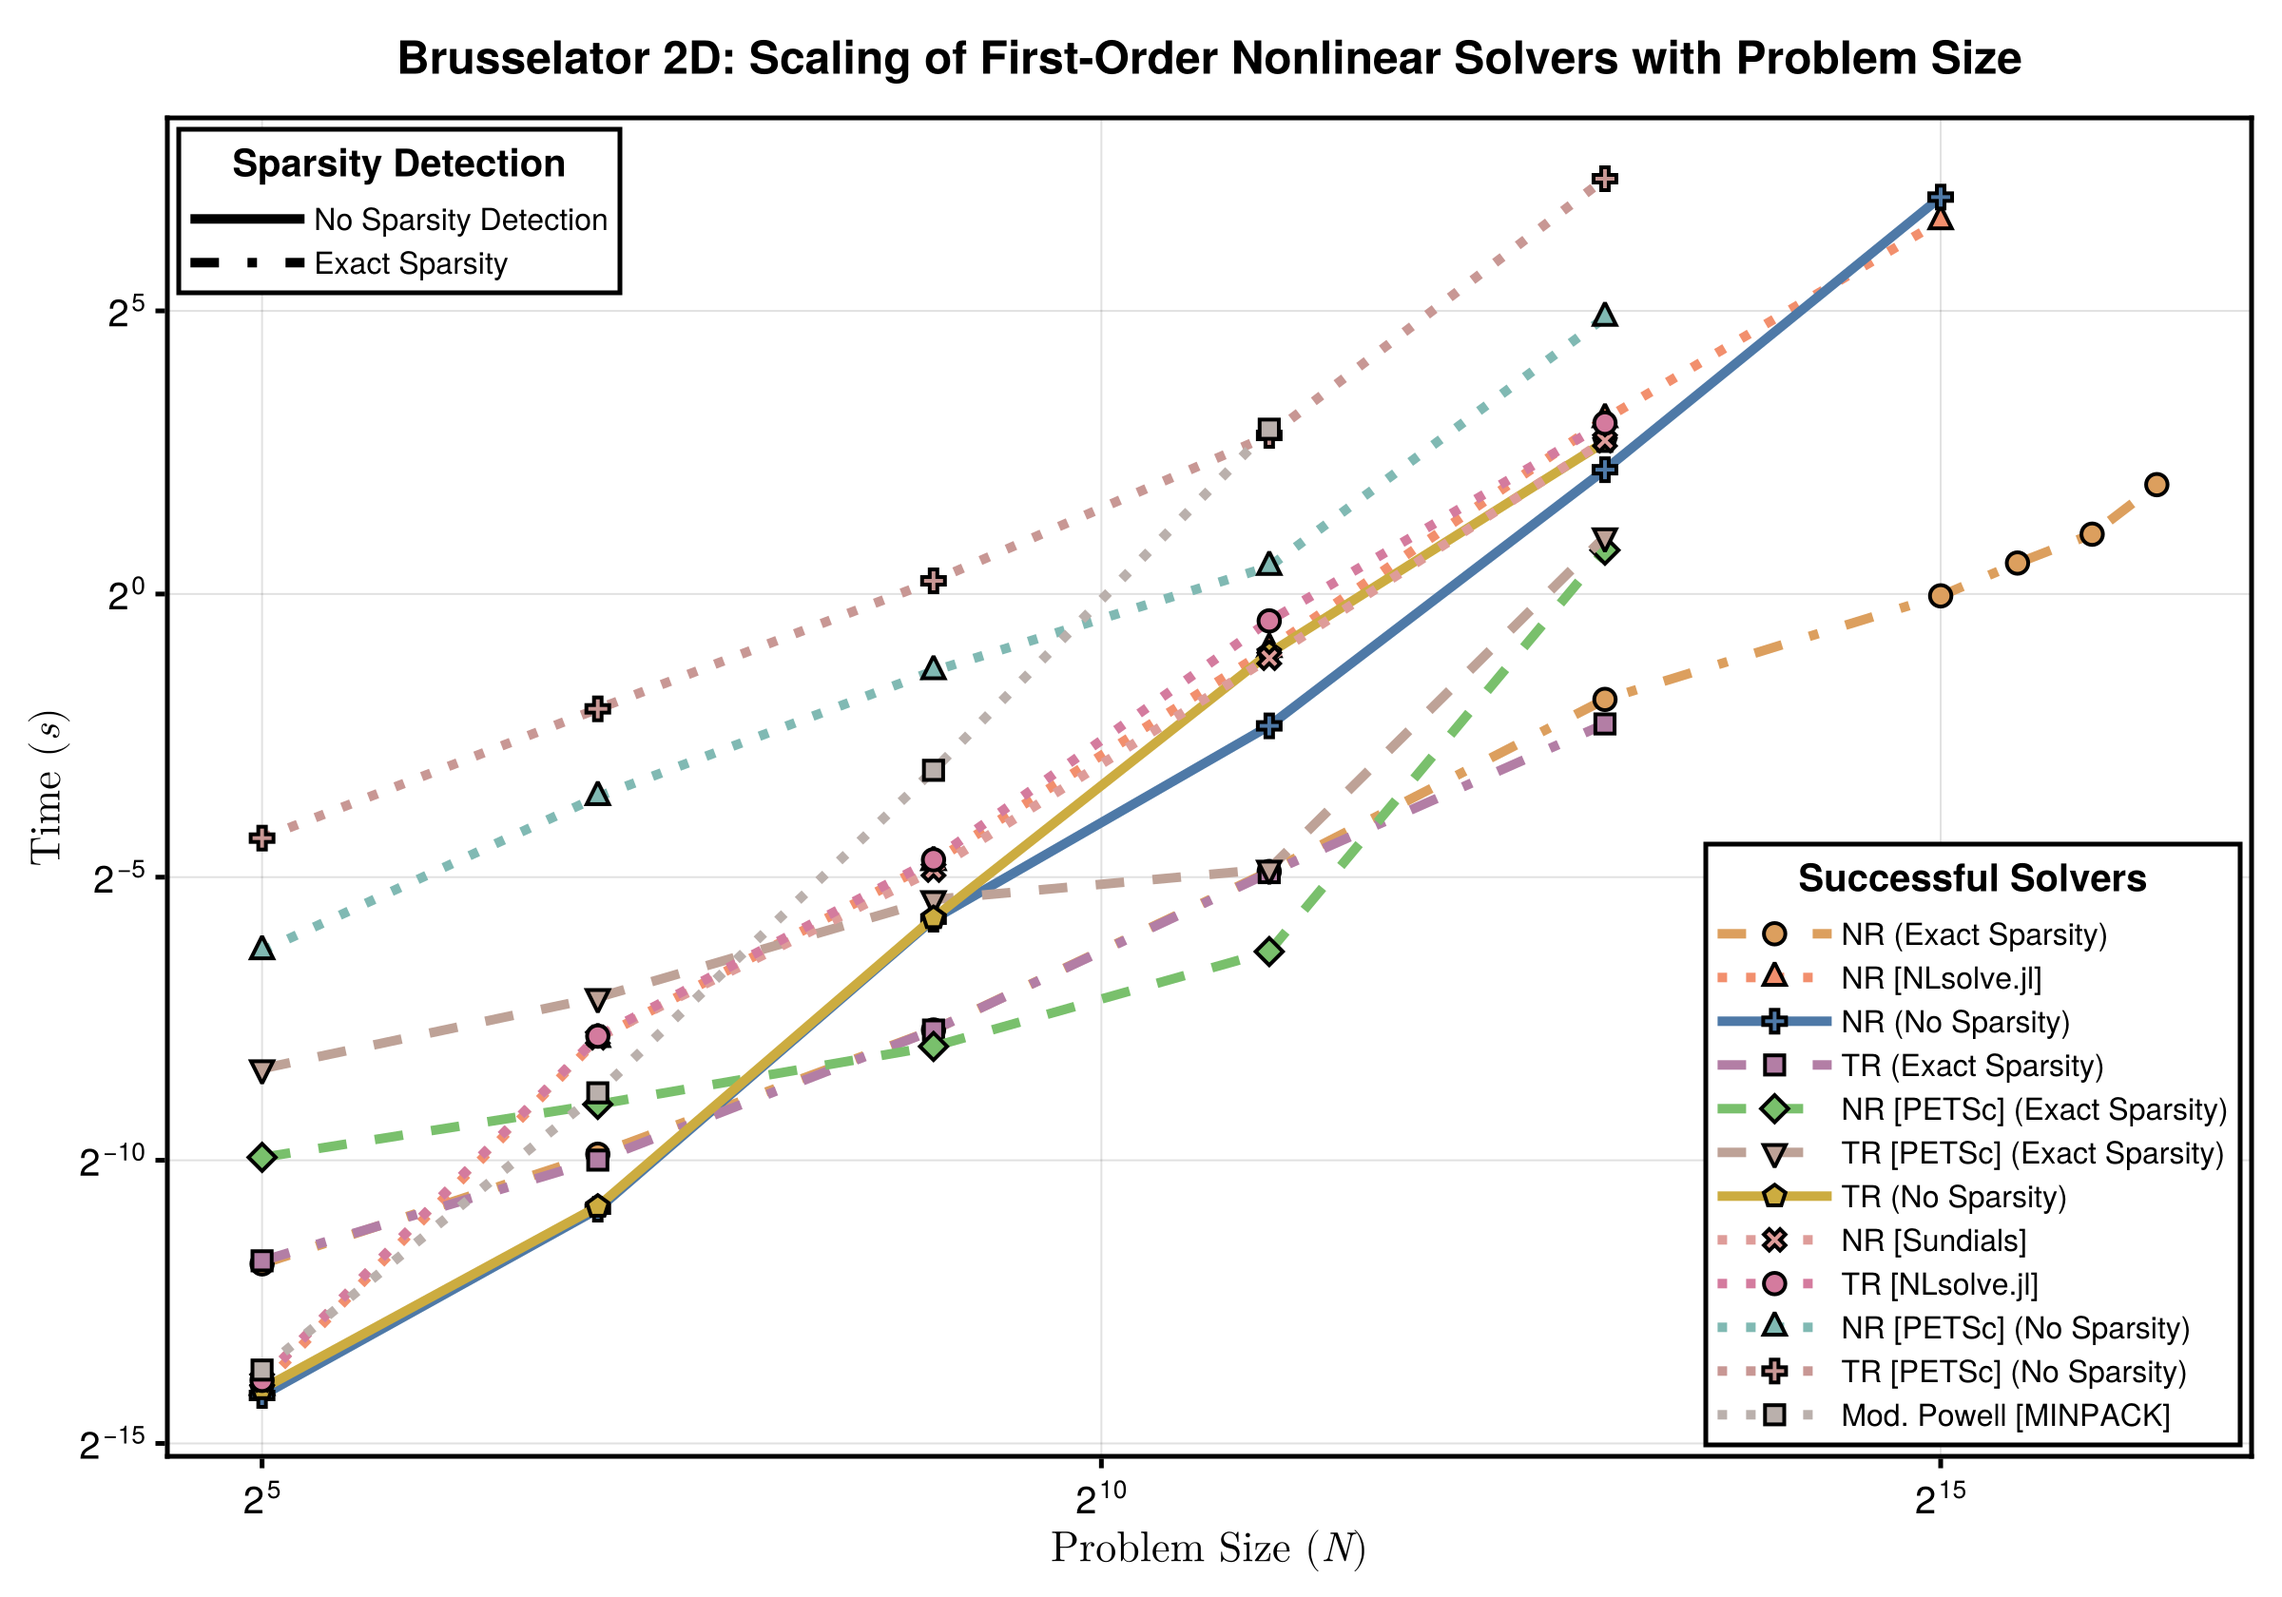
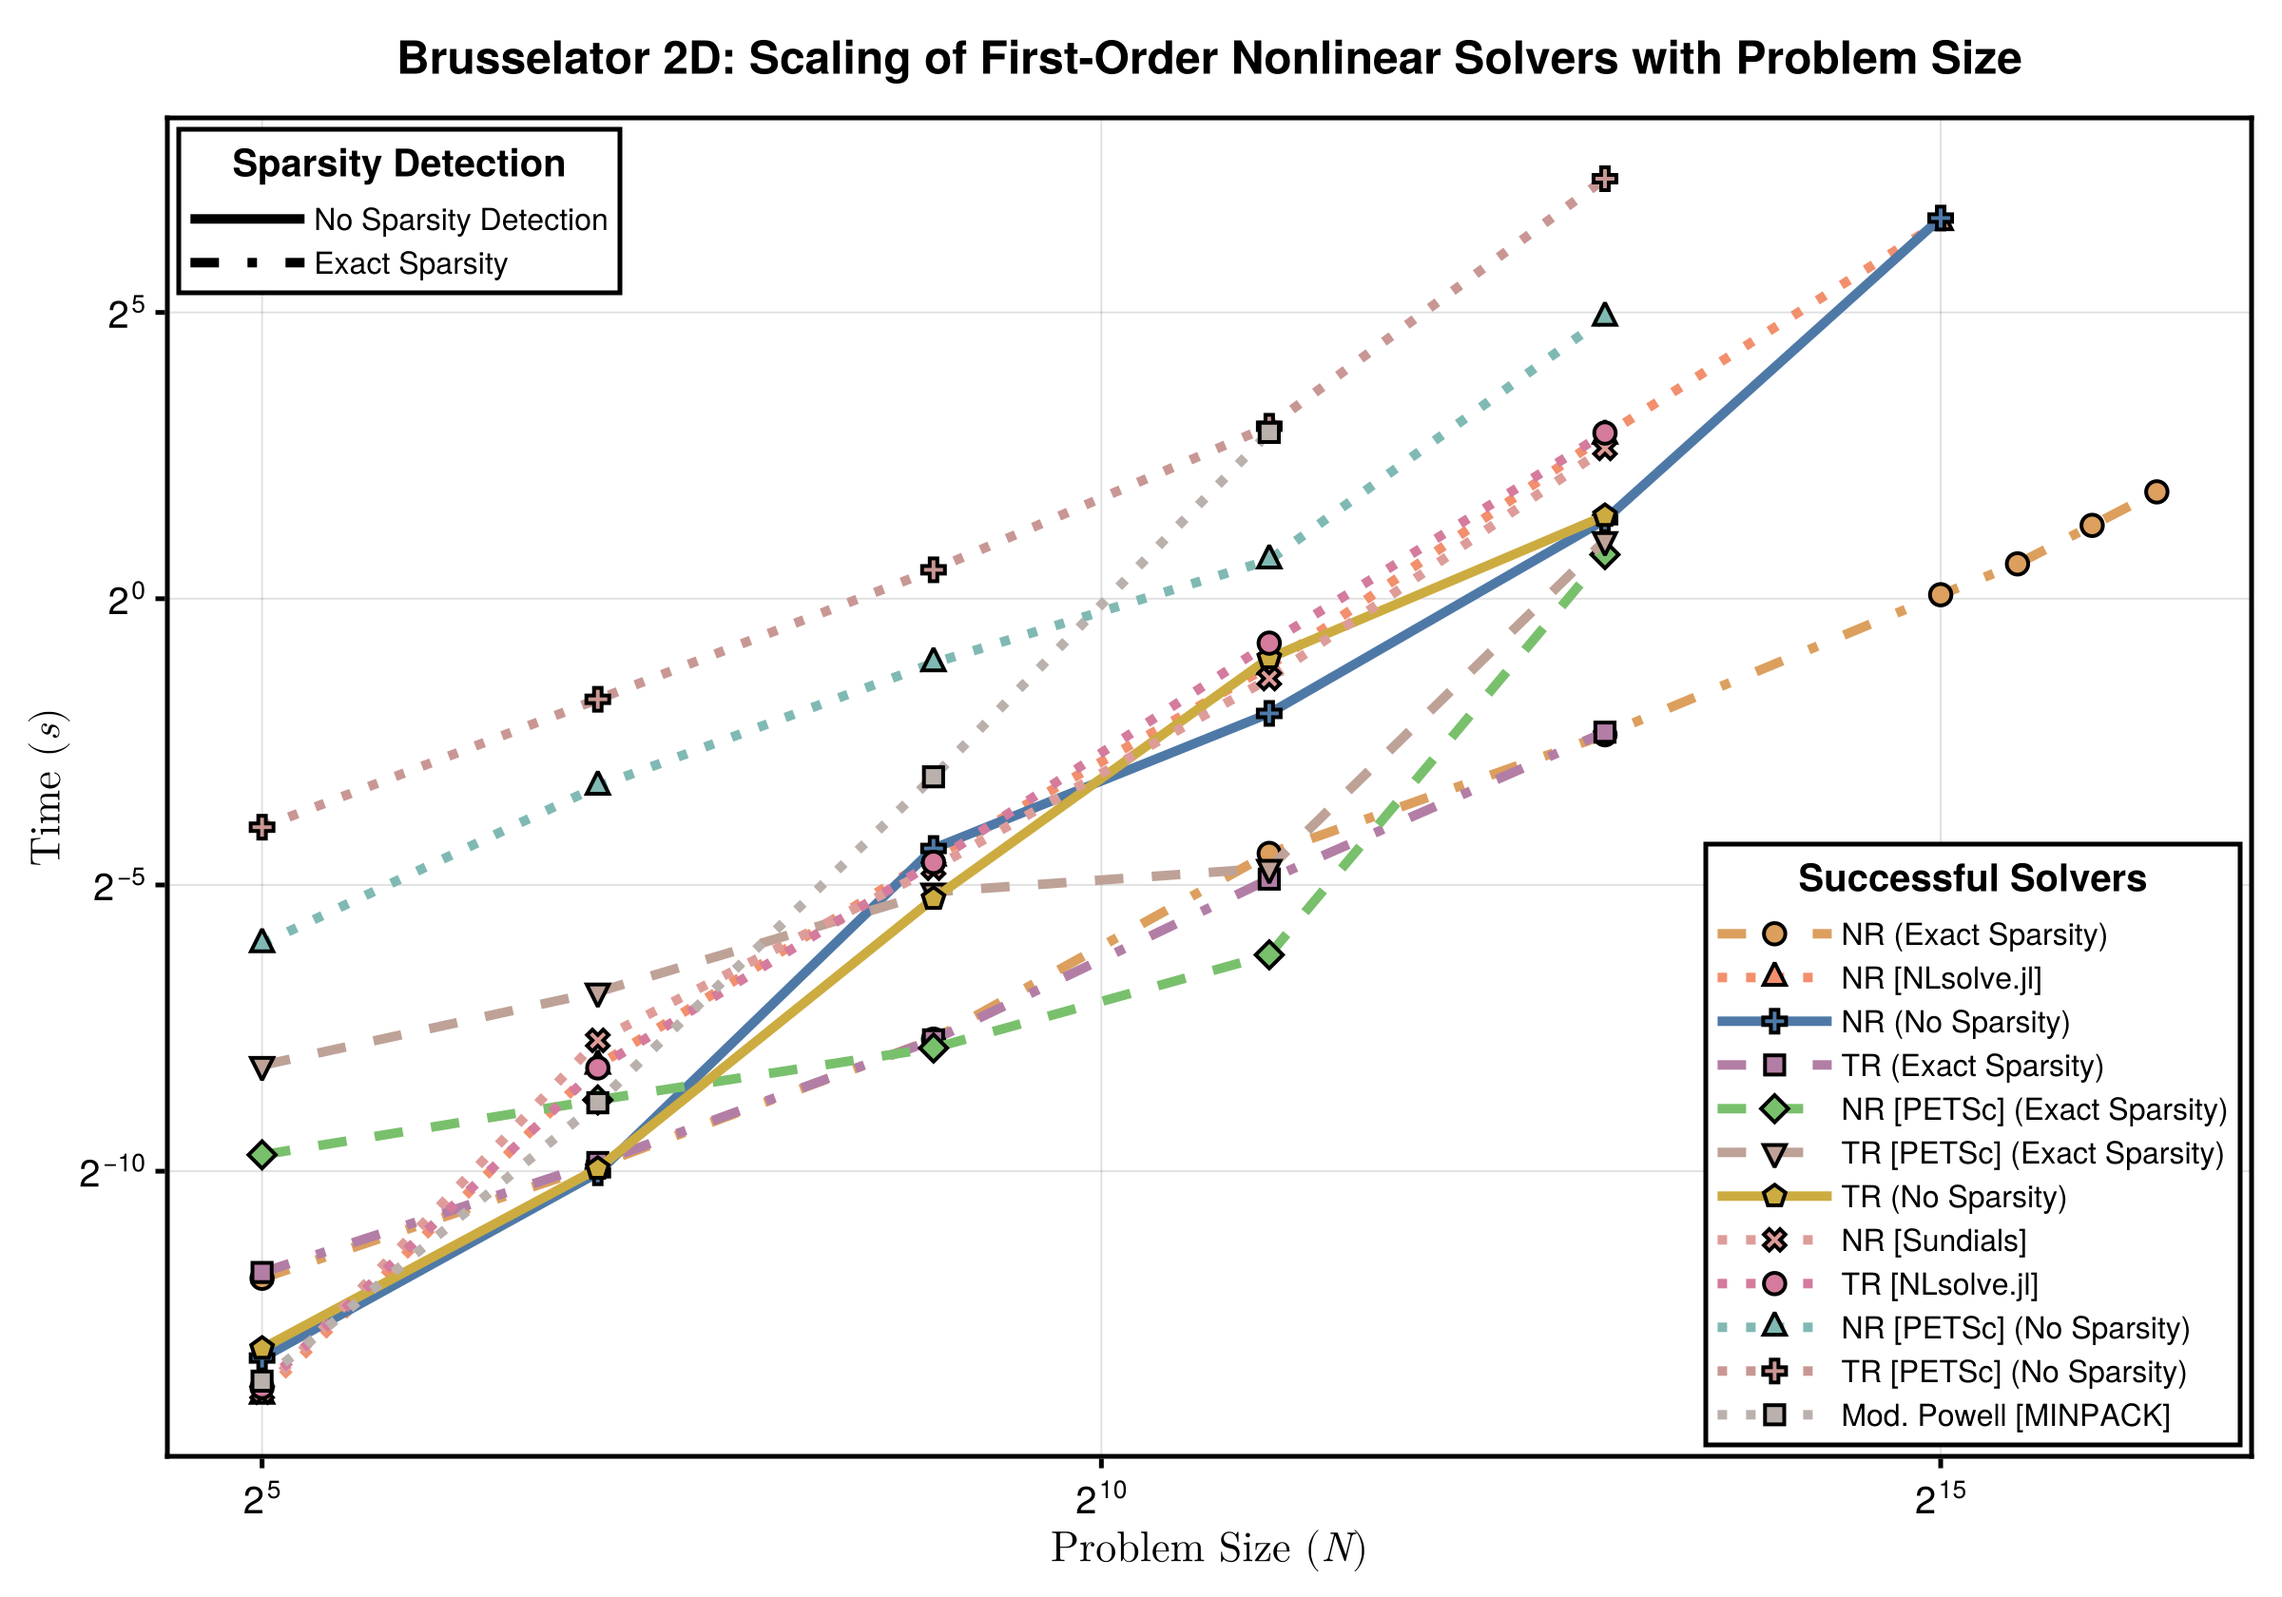
Automatic build\nPublished by build of: https://github.com/SciML/SciMLBenchmarks.jl/commit/75b6b8aa53081278573d843c6d33fb484ace4be0

diff --git a/markdown/NonlinearProblem/bruss.md b/markdown/NonlinearProblem/bruss.md
@@ -1,5 +1,4 @@
 ---
-priority: 1000000
 author: "Avik Pal"
 title: "Ill-Conditioned Nonlinear System Work-Precision Diagrams"
 ---
@@ -266,22 +265,22 @@ nothing
 ```
 
 ```
-2        1.9419e-5        1.428e-5        1.592e-5        1.605e-5
-        1.024e-5         1.18e-5        1.176e-5
-         4         7.108e-5        5.159e-5       5.3769e-5       6.4509e-5
-        4.014e-5        4.248e-5        5.214e-5
-         8      0.000267367     0.000209768     0.000199148     0.000336387
-     0.000240398     0.000229368     0.000660834
-        16      0.001039101     0.000863353     0.000810403     0.002968924
-       0.0023345     0.002136312     0.010796625
-        32        0.0044309     0.003852796      0.00343603     0.037425562
-     0.030542652     0.027291911     0.179219778
-        64      0.021259933     0.019226981     0.017699374     0.575017146
-     0.466706676     0.428670909     2.871535729
-       128       0.23709393     0.210077377     0.200269763    12.741968261
-     7.237861722     6.368063549    47.137811617
-       256      2.709332248     2.729361345     2.654045386   192.483320111
-   115.558773442   102.396363802  1107.944896334
+2         1.948e-5        1.451e-5        1.634e-5        1.624e-5
+       1.0419e-5        1.228e-5        1.191e-5
+         4        7.2799e-5        5.257e-5        5.543e-5        6.518e-5
+        3.999e-5       4.3579e-5       6.9509e-5
+         8      0.000277287     0.000216747     0.000209978     0.000349197
+     0.000243398     0.000237577     0.000211168
+        16      0.001094779     0.000930871     0.000862062      0.00295241
+     0.002287236     0.002094868     0.007915839
+        32      0.004546024     0.003951289     0.003526274     0.036619796
+     0.029734497     0.026168994     0.010644612
+        64      0.022095126     0.020143375     0.018914487     0.565416471
+     0.463717527     0.414553668     0.170012849
+       128      0.307658826     0.293348723     0.274631222    12.892225506
+     7.416623677     6.634982724     7.127184688
+       256      2.684697741     2.486317135     2.453638856   194.000301367
+   116.047485445    99.260692344   127.200112855
 ```
 
 
@@ -818,7 +817,7 @@ Platform Info:
   WORD_SIZE: 64
   LIBM: libopenlibm
   LLVM: libLLVM-15.0.7 (ORCJIT, znver2)
-Threads: 1 default, 0 interactive, 1 GC (on 128 virtual cores)
+Threads: 128 default, 0 interactive, 64 GC (on 128 virtual cores)
 Environment:
   JULIA_CPU_THREADS = 128
   JULIA_DEPOT_PATH = /cache/julia-buildkite-plugin/depots/5b300254-1738-4989-ae0a-f4d2d937f953
@@ -828,14 +827,14 @@ Environment:
 Package Information:
 
 ```
-Status `/cache/build/exclusive-amdci3-0/julialang/scimlbenchmarks-dot-jl/benchmarks/NonlinearProblem/Project.toml`
+Status `/cache/build/exclusive-amdci1-0/julialang/scimlbenchmarks-dot-jl/benchmarks/NonlinearProblem/Project.toml`
   [2169fc97] AlgebraicMultigrid v1.0.0
   [6e4b80f9] BenchmarkTools v1.6.0
   [13f3f980] CairoMakie v0.13.4
   [2b5f629d] DiffEqBase v6.167.2
   [f3b72e0c] DiffEqDevTools v2.48.0
   [a0c0ee7d] DifferentiationInterface v0.6.52
-  [7da242da] Enzyme v0.13.37
+⌃ [7da242da] Enzyme v0.13.37
   [40713840] IncompleteLU v0.2.1
   [b964fa9f] LaTeXStrings v1.4.0
   [d3d80556] LineSearches v7.3.0
@@ -858,12 +857,13 @@ Status `/cache/build/exclusive-amdci3-0/julialang/scimlbenchmarks-dot-jl/benchma
   [90137ffa] StaticArrays v1.9.13
   [c3572dad] Sundials v4.28.0
   [0c5d862f] Symbolics v6.38.0
+Info Packages marked with ⌃ have new versions available and may be upgradable.
 ```
 
 And the full manifest:
 
 ```
-Status `/cache/build/exclusive-amdci3-0/julialang/scimlbenchmarks-dot-jl/benchmarks/NonlinearProblem/Manifest.toml`
+Status `/cache/build/exclusive-amdci1-0/julialang/scimlbenchmarks-dot-jl/benchmarks/NonlinearProblem/Manifest.toml`
   [47edcb42] ADTypes v1.14.0
   [a4c015fc] ANSIColoredPrinters v0.0.1
   [621f4979] AbstractFFTs v1.5.0
@@ -931,7 +931,7 @@ Status `/cache/build/exclusive-amdci3-0/julialang/scimlbenchmarks-dot-jl/benchma
   [5b8099bc] DomainSets v0.7.15
   [7c1d4256] DynamicPolynomials v0.6.1
   [4e289a0a] EnumX v1.0.5
-  [7da242da] Enzyme v0.13.37
+⌃ [7da242da] Enzyme v0.13.37
   [f151be2c] EnzymeCore v0.8.8
   [429591f6] ExactPredicates v2.2.8
   [460bff9d] ExceptionUnwrapping v0.1.11
